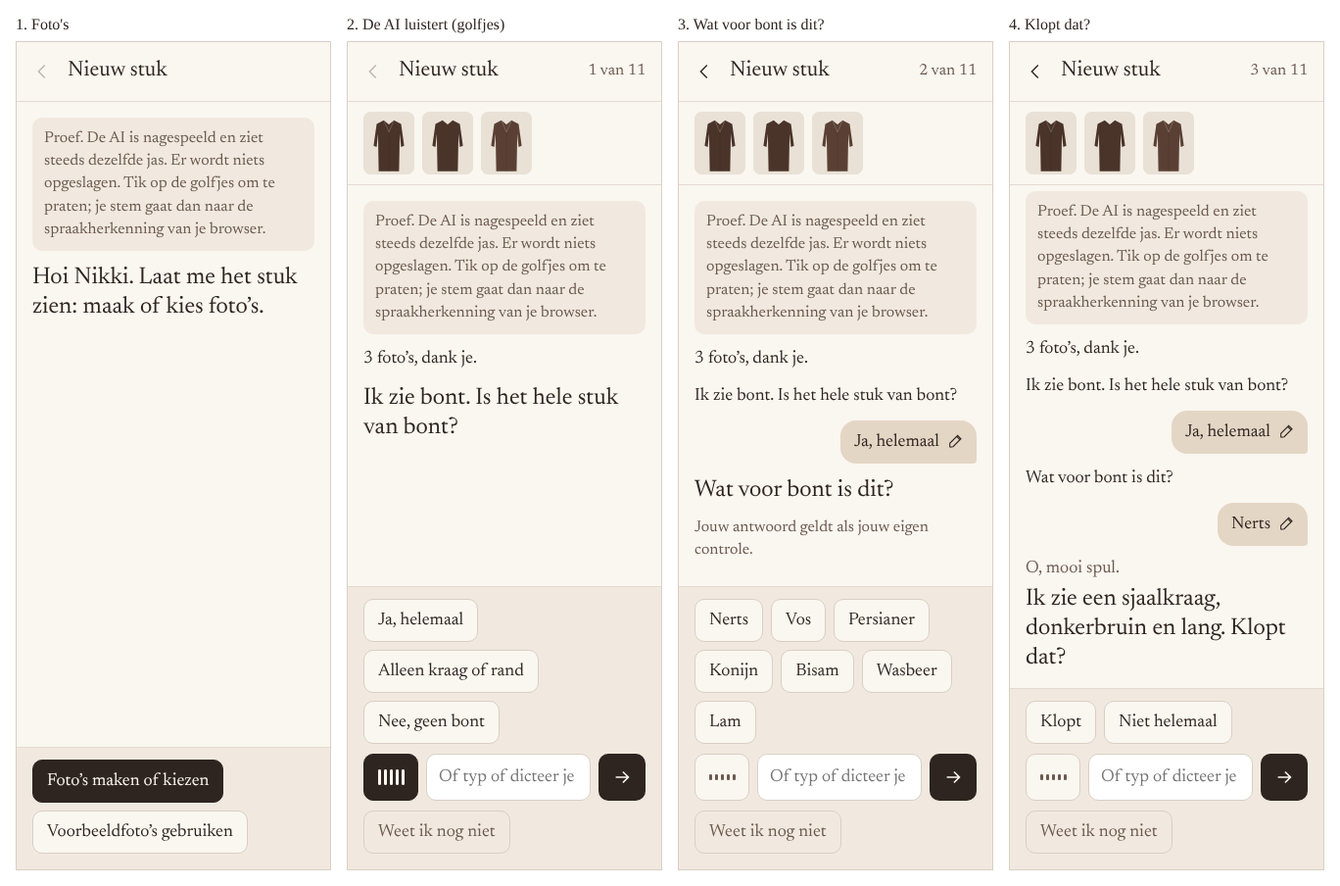
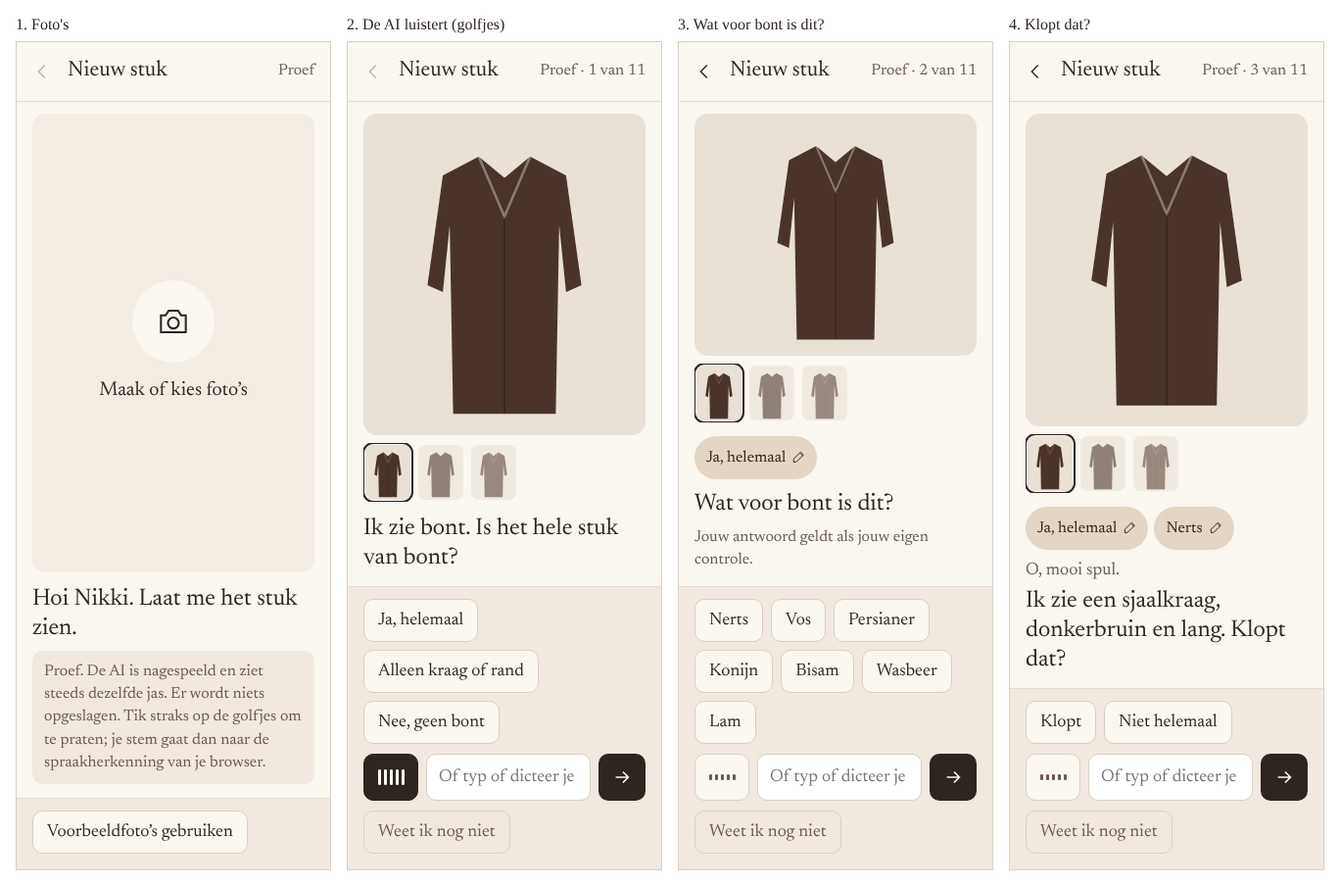
Mock Nieuw stuk als gesprek, versie 2: podium met foto, vraag woord voor woord, levendige golfjes
Claude-Session: https://claude.ai/code/session_016f11jH7HVz8Z6M7n49UibA

diff --git a/concept/invoer-gesprek.html b/concept/invoer-gesprek.html
@@ -39,22 +39,46 @@ svg { display: block; }
 .top h1 { flex: 1; min-width: 0; margin: 0; font-size: 22px; font-weight: 400; }
 .steps { flex: none; padding-right: 8px; font-size: 16px; color: var(--muted); white-space: nowrap; }
 
-/* Foto's staan in een eigen strook; er staat nooit tekst op een foto. */
-.thumbs { flex: none; display: flex; gap: 8px; padding: 10px 16px; overflow-x: auto; border-bottom: 1px solid var(--line); }
-.thumbs img { flex: none; width: 52px; height: 64px; object-fit: cover; object-position: center top; border-radius: 8px; background: var(--photo-bg); }
+/* Het podium vult de ruimte die overblijft. Er staat nooit tekst op een foto. */
+.stage { flex: 1 1 0; min-height: 150px; display: flex; flex-direction: column; gap: 8px; padding: 12px 16px 4px; }
+.hero { position: relative; flex: 1; min-height: 0; border-radius: 14px; overflow: hidden; background: var(--photo-bg); }
+.hero img { width: 100%; height: 100%; object-fit: contain; object-position: center; animation: beeld 360ms ease-out both; }
+@keyframes beeld { from { opacity: 0; transform: scale(1.03); } to { opacity: 1; transform: none; } }
+/* De AI "kijkt": een zachte lichtbaan trekt over de foto. */
+.scan { position: absolute; inset: 0; pointer-events: none; background: linear-gradient(100deg, transparent 35%, rgba(250,246,240,.55) 50%, transparent 65%); background-size: 250% 100%; animation: kijk 900ms ease-in-out infinite; }
+@keyframes kijk { from { background-position: 120% 0; } to { background-position: -20% 0; } }
+.hero .camera { position: absolute; inset: 0; display: flex; flex-direction: column; align-items: center; justify-content: center; gap: 14px; background: var(--chip); font-size: 20px; text-align: center; cursor: pointer; }
+.camera .lens { width: 84px; height: 84px; border-radius: 50%; background: var(--bg); display: grid; place-items: center; animation: adem 2600ms ease-in-out infinite; }
+@keyframes adem { 0%, 100% { transform: scale(1); } 50% { transform: scale(1.06); } }
+.camera:focus-within { outline: 2px solid var(--fg); outline-offset: -4px; }
+.thumbs { flex: none; display: flex; gap: 8px; overflow-x: auto; padding: 2px; }
+.thumbs button { flex: none; width: 46px; height: 56px; padding: 0; border: 0; border-radius: 8px; overflow: hidden; background: var(--photo-bg); opacity: .6; animation: val 380ms cubic-bezier(.2,.8,.2,1) both; animation-delay: calc(var(--i) * 70ms); }
+.thumbs button[aria-pressed="true"] { opacity: 1; outline: 2px solid var(--fg); outline-offset: 1px; }
+.thumbs img { display: block; width: 100%; height: 100%; object-fit: cover; object-position: center top; }
+@keyframes val { from { opacity: 0; transform: translateY(-14px) scale(.9); } to { transform: none; } }
+[data-mode="overview"] .stage { display: none; }
 
-.talk { position: relative; flex: 1; min-height: 0; overflow-y: auto; overscroll-behavior: contain; padding: 16px; display: flex; flex-direction: column; gap: 12px; }
+.talk { position: relative; flex: 0 1 auto; min-height: 0; max-height: 46%; overflow-y: auto; overscroll-behavior: contain; padding: 8px 16px 14px; display: flex; flex-direction: column; gap: 8px; }
+[data-mode="overview"] .talk { flex: 1; max-height: none; padding-top: 16px; gap: 12px; }
 .note { margin: 0; padding: 10px 12px; border-radius: 10px; background: var(--band); color: var(--muted); font-size: 16px; }
 .ai { margin: 0; max-width: 34ch; }
-.ai.now { font-size: 24px; line-height: 1.25; max-width: 22ch; }
+.ai.now { font-size: 24px; line-height: 1.25; max-width: 24ch; }
+/* De vraag komt woord voor woord; schermlezers krijgen de hele zin. */
+.ai.fresh .w { opacity: 0; animation: woord 260ms ease-out forwards; animation-delay: calc(var(--i) * 45ms); }
+@keyframes woord { from { opacity: 0; transform: translateY(4px); } to { opacity: 1; transform: none; } }
+.trail { flex: none; display: flex; gap: 6px; overflow-x: auto; margin: 0 -16px; padding: 2px 16px; scrollbar-width: none; }
+.trail::-webkit-scrollbar { display: none; }
+.done-mark { width: 56px; height: 56px; border-radius: 50%; background: var(--chip-on); display: grid; place-items: center; }
+.done-mark path { stroke-dasharray: 30; stroke-dashoffset: 30; animation: vink 420ms 120ms ease-out forwards; }
+@keyframes vink { to { stroke-dashoffset: 0; } }
 .ai .warm { display: block; color: var(--muted); font-size: 18px; padding-bottom: 4px; }
-.me { align-self: flex-end; max-width: 85%; min-height: 44px; padding: 8px 14px; border: 0; border-radius: 16px 16px 4px 16px; background: var(--chip-on); text-align: left; display: flex; align-items: center; gap: 8px; overflow-wrap: anywhere; }
+.me { flex: none; max-width: 70vw; min-height: 44px; padding: 6px 12px; border: 0; border-radius: 22px; background: var(--chip-on); font-size: 16px; white-space: nowrap; overflow: hidden; text-overflow: ellipsis; display: flex; align-items: center; gap: 6px; }
+.me span { overflow: hidden; text-overflow: ellipsis; }
 .me svg { flex: none; }
 .dots { display: flex; gap: 6px; padding: 8px 0; }
 .dots i { width: 8px; height: 8px; border-radius: 50%; background: var(--muted); animation: wacht 900ms ease-in-out infinite; }
 .dots i:nth-child(2) { animation-delay: 150ms; } .dots i:nth-child(3) { animation-delay: 300ms; }
 @keyframes wacht { 0%, 100% { opacity: .25; } 50% { opacity: 1; } }
-.measure { width: 120px; height: 150px; border-radius: 8px; background: var(--photo-bg); }
 
 /* Overzicht: zo komt het in de boetiek. */
 .card { border: 1px solid var(--line); border-radius: 14px; background: #FFFFFF; padding: 12px; display: flex; flex-direction: column; gap: 10px; }
@@ -67,8 +91,10 @@ svg { display: block; }
 
 /* Antwoorden: grote knoppen, daaronder typen of dicteren. */
 .answer { flex: none; padding: 12px 16px 16px; border-top: 1px solid var(--line); background: var(--band); display: flex; flex-direction: column; gap: 10px; }
-.chips { display: flex; flex-wrap: wrap; gap: 8px; max-height: 38vh; overflow-y: auto; }
-.chip { min-height: 44px; padding: 8px 14px; border: 1px solid var(--chip-line); border-radius: 10px; background: var(--bg); text-align: left; }
+.chips { display: flex; flex-wrap: wrap; gap: 8px; max-height: 28vh; overflow-y: auto; }
+.chip { min-height: 44px; padding: 8px 14px; border: 1px solid var(--chip-line); border-radius: 10px; background: var(--bg); text-align: left; transition: transform 120ms ease-out, background 160ms ease-out; }
+.chip:active { transform: scale(.96); }
+.chips.fresh .chip { animation: woord 260ms ease-out both; animation-delay: calc(120ms + var(--i) * 28ms); }
 .chip[aria-pressed="true"] { background: var(--chip-on); border-color: var(--fg); }
 .chip.main { background: var(--fg); border-color: var(--fg); color: var(--bg); }
 .chip.quiet { background: transparent; color: var(--muted); }
@@ -86,10 +112,8 @@ svg { display: block; }
 .voice[data-voice="speaking"] .bars { display: none; }
 .voice[data-voice="speaking"] .wave { display: block; }
 .voice .bars rect { transform-box: fill-box; transform-origin: center; transform: scaleY(.3); }
-.voice[data-voice="listening"] .bars rect { animation: luister 700ms ease-in-out infinite; }
-.voice .bars rect:nth-child(2) { animation-delay: 120ms; } .voice .bars rect:nth-child(3) { animation-delay: 240ms; }
-.voice .bars rect:nth-child(4) { animation-delay: 360ms; } .voice .bars rect:nth-child(5) { animation-delay: 480ms; }
-@keyframes luister { 0%, 100% { transform: scaleY(.25); } 50% { transform: scaleY(1); } }
+.voice .bars rect { transition: transform 110ms ease-out; }
+.voice .wave { transform: scaleY(var(--amp, 1)); transition: transform 140ms ease-out; }
 .voice[data-voice="speaking"] .wave path { animation: praat 900ms linear infinite; }
 @keyframes praat { from { transform: translateX(0); } to { transform: translateX(-16px); } }
 .voice-note { margin: 0; font-size: 16px; color: var(--muted); }
@@ -97,7 +121,14 @@ svg { display: block; }
 .pick { position: relative; overflow: hidden; }
 .pick input { position: absolute; inset: 0; opacity: 0; cursor: pointer; }
 
-@media (prefers-reduced-motion: reduce) { .dots i { animation: none; opacity: .6; } .voice .bars rect, .voice .wave path { animation: none !important; } .voice[data-voice="listening"] .bars rect { transform: scaleY(.8); } }
+@media (prefers-reduced-motion: reduce) {
+  .dots i { animation: none; opacity: .6; }
+  .voice .wave path, .hero img, .scan, .camera .lens, .thumbs button, .chips.fresh .chip, .done-mark path { animation: none !important; }
+  .ai.fresh .w { animation: none; opacity: 1; }
+  .done-mark path { stroke-dashoffset: 0; }
+  .scan { display: none; }
+  .voice[data-voice="listening"] .bars rect { transform: scaleY(.8); }
+}
 </style>
 </head>
 <body>
@@ -107,7 +138,11 @@ svg { display: block; }
     <h1>Nieuw stuk</h1>
     <span class="steps" id="steps" aria-live="polite"></span>
   </header>
-  <div class="thumbs" id="thumbs" hidden></div>
+  <!-- Het podium: de foto groot in beeld; bij een maatvraag de tekening van waar het meetlint ligt. -->
+  <section class="stage" id="stage" data-state="empty">
+    <div class="hero" id="hero"></div>
+    <div class="thumbs" id="thumbs" role="group" aria-label="Foto’s van dit stuk" hidden></div>
+  </section>
   <main class="talk" id="talk" aria-live="polite"></main>
   <form class="answer" id="answer" novalidate></form>
 </div>
@@ -144,7 +179,10 @@ svg { display: block; }
   var $ = function (id) { return document.getElementById(id); };
   var A = {}, photos = [], editing = null, thinking = false, saved = false, multi = null, error = '';
   // Praten (alleen na een tik op de golfjes): de AI leest de vraag voor en luistert daarna.
-  var voice = { on: false, state: 'idle', note: '', said: '', rec: null };
+  var voice = { on: false, state: 'idle', note: '', said: '', rec: null, hearing: false, timer: null };
+  // Wat er op het podium staat en welke vraag al getoond is (voor de overgangen).
+  var view = null, heroKey = '', thumbKey = '', askedKey = '';
+  var calm = window.matchMedia && window.matchMedia('(prefers-reduced-motion: reduce)').matches;
   var VOICE_ICON = '<svg class="bars" width="30" height="24" viewBox="0 0 30 24" fill="currentColor" aria-hidden="true"><rect x="2" y="2" width="3" height="20" rx="1.5"/><rect x="8" y="2" width="3" height="20" rx="1.5"/><rect x="14" y="2" width="3" height="20" rx="1.5"/><rect x="20" y="2" width="3" height="20" rx="1.5"/><rect x="26" y="2" width="3" height="20" rx="1.5"/></svg>' +
     '<svg class="wave" width="30" height="24" viewBox="0 0 30 24" fill="none" stroke="currentColor" stroke-width="2.4" stroke-linecap="round" aria-hidden="true"><path d="M-16 12 q4 -9 8 0 t8 0 t8 0 t8 0 t8 0 t8 0 t8 0"/></svg>';
   var VOICE_LABEL = { idle: 'Praat met de AI', speaking: 'De AI praat. Tik om te stoppen', listening: 'De AI luistert. Tik om te stoppen' };
@@ -211,31 +249,56 @@ svg { display: block; }
     A[step.id] = value; if (step.set) step.set(value);
     editing = null; multi = null; saved = false; render();
   }
+  function words(text, from) {
+    return text.split(' ').map(function (w, i) { return '<span class="w" style="--i:' + (from + i) + '">' + esc(w) + '</span>'; }).join(' ');
+  }
+  // Het podium: cameravlak, de gekozen foto, of bij een maatvraag de tekening met het meetlint.
+  function renderStage(step) {
+    var hero = $('hero'), key, h;
+    if (!photos.length) { key = 'camera'; h = '<label class="camera pick"><span class="lens" aria-hidden="true"><svg width="38" height="38" viewBox="0 0 24 24" fill="none" stroke="currentColor" stroke-width="1.3"><path d="M4 8h3l2-3h6l2 3h3v11H4z"/><circle cx="12" cy="13" r="3.5"/></svg></span><span>Maak of kies foto’s</span><input type="file" id="files" accept="image/*" multiple aria-label="Foto’s maken of kiezen"></label>'; }
+    else if (step && step.kind === 'cm') { key = 'cm-' + step.id; h = '<img class="measure" src="' + coat('#4A342A', step.id === 'length', MEASURE[step.id]) + '" alt="Tekening: zo leg je het meetlint voor de ' + step.label.toLowerCase() + '">'; }
+    else { var at = Math.min(view === null ? 0 : view, photos.length - 1); key = 'photo-' + at + photos[at]; h = '<img src="' + esc(photos[at]) + '" alt="Foto ' + (at + 1) + ' van dit stuk">'; }
+    if (thinking) { key += '-scan'; h += '<div class="scan" aria-hidden="true"></div>'; }
+    if (key !== heroKey) { heroKey = key; hero.innerHTML = h; }
+    $('stage').setAttribute('data-state', !photos.length ? 'empty' : thinking ? 'looking' : 'photo');
+    var thumbs = $('thumbs'), shownAt = step && step.kind === 'cm' ? -1 : Math.min(view === null ? 0 : view, photos.length - 1);
+    thumbs.hidden = !photos.length;
+    if (photos.join('|') !== thumbKey) {
+      thumbKey = photos.join('|');
+      thumbs.innerHTML = photos.map(function (src, i) { return '<button type="button" data-view="' + i + '" style="--i:' + i + '" aria-label="Bekijk foto ' + (i + 1) + '"><img src="' + esc(src) + '" alt=""></button>'; }).join('');
+    }
+    Array.from(thumbs.children).forEach(function (b, i) { b.setAttribute('aria-pressed', String(i === shownAt)); });
+  }
   function render() {
     var list = active(), step = thinking ? null : current(), answered = list.filter(done), talk = $('talk'), h = '';
-    $('thumbs').hidden = !photos.length;
-    $('thumbs').innerHTML = photos.map(function (src, i) { return '<img src="' + esc(src) + '" alt="Foto ' + (i + 1) + '">'; }).join('');
-    $('steps').textContent = photos.length && !thinking ? Math.min(answered.length + (step ? 1 : 0), list.length) + ' van ' + list.length : '';
+    var overview = !!photos.length && !thinking && !step;
+    $('app').setAttribute('data-mode', overview ? 'overview' : 'talk');
+    $('steps').textContent = 'Proef' + (photos.length && !thinking ? ' · ' + Math.min(answered.length + (step ? 1 : 0), list.length) + ' van ' + list.length : '');
     $('back').disabled = !photos.length || thinking || (!answered.length && !saved);
-    h += '<p class="note">Proef. De AI is nagespeeld en ziet steeds dezelfde jas. Er wordt niets opgeslagen. Tik op de golfjes om te praten; je stem gaat dan naar de spraakherkenning van je browser.</p>';
-    if (!photos.length) h += '<p class="ai now">Hoi Nikki. Laat me het stuk zien: maak of kies foto’s.</p>';
-    else h += '<p class="ai">' + (photos.length === 1 ? 'Eén foto' : photos.length + ' foto’s') + ', dank je.</p>';
-    if (thinking) h += '<div class="dots" role="img" aria-label="De AI bekijkt de foto’s"><i></i><i></i><i></i></div>';
-    var warm = '';
+    renderStage(step);
+    if (!photos.length) h += '<p class="ai now">Hoi Nikki. Laat me het stuk zien.</p><p class="note">Proef. De AI is nagespeeld en ziet steeds dezelfde jas. Er wordt niets opgeslagen. Tik straks op de golfjes om te praten; je stem gaat dan naar de spraakherkenning van je browser.</p>';
+    if (thinking) h += '<p class="ai now">' + (photos.length === 1 ? 'Eén foto' : photos.length + ' foto’s') + ', dank je. Ik kijk even.</p><div class="dots" role="img" aria-label="De AI bekijkt de foto’s"><i></i><i></i><i></i></div>';
+    var warm = '', fresh = false;
     if (photos.length && !thinking) {
+      // Wat al gezegd is, staat als rij knoppen boven de vraag; een tik wijzigt het antwoord.
+      var trail = '';
       answered.forEach(function (s) {
         if (step && s.id === step.id) return;
-        h += '<p class="ai">' + (warm ? '<span class="warm">' + esc(warm) + '</span>' : '') + esc(s.ask()) + '</p>';
-        h += '<button type="button" class="me" data-edit="' + s.id + '" aria-label="' + esc(s.label + ': ' + shown(s) + '. Tik om te wijzigen') + '"><span>' + esc(shown(s)) + '</span><svg width="16" height="16" viewBox="0 0 24 24" fill="none" stroke="currentColor" stroke-width="1.6" aria-hidden="true"><path d="m15 4 5 5M4 20l5-1L21 7l-5-5L4 14v6"/></svg></button>';
+        trail += '<button type="button" class="me" data-edit="' + s.id + '" aria-label="' + esc(s.label + ': ' + shown(s) + '. Tik om te wijzigen') + '"><span>' + esc(shown(s)) + '</span><svg width="14" height="14" viewBox="0 0 24 24" fill="none" stroke="currentColor" stroke-width="1.6" aria-hidden="true" style="flex:none"><path d="m15 4 5 5M4 20l5-1L21 7l-5-5L4 14v6"/></svg></button>';
         warm = A[s.id] === SKIP ? 'Geen punt, dat kan later.' : s.warm ? s.warm(A[s.id]) : '';
       });
       if (step) {
-        h += '<p class="ai now" id="question">' + (warm && !editing ? '<span class="warm">' + esc(warm) + '</span>' : '') + esc(step.ask()) + '</p>';
-        if (step.kind === 'cm') h += '<img class="measure" src="' + coat('#4A342A', step.id === 'length', MEASURE[step.id]) + '" alt="Tekening: zo leg je het meetlint voor de ' + step.label.toLowerCase() + '">';
+        if (trail) h += '<div class="trail" id="trail">' + trail + '</div>';
+        var said = warm && !editing ? warm : '', ask = step.ask();
+        fresh = askedKey !== step.id + ask; askedKey = step.id + ask;
+        h += '<p class="ai now' + (fresh ? ' fresh' : '') + '" id="question">' + (said ? '<span class="warm">' + words(said, 0) + '</span>' : '') + words(ask, said ? said.split(' ').length + 2 : 0) + '</p>';
         if (step.hint) h += '<p class="ai" style="color:var(--muted);font-size:16px">' + esc(step.hint) + '</p>';
       } else if (saved) {
-        h += '<p class="ai now">' + (missing(list).length ? 'Bewaard als concept. Je maakt hem later af; in de boetiek staat hij nog niet.' : 'Klaar. In de echte versie staat hij nu in de boetiek.') + '</p>';
+        askedKey = '';
+        h += '<div class="done-mark" aria-hidden="true"><svg width="28" height="28" viewBox="0 0 24 24" fill="none" stroke="currentColor" stroke-width="2"><path d="M5 12.5l4.5 4.5L19 7.5"/></svg></div>' +
+          '<p class="ai now">' + (missing(list).length ? 'Bewaard als concept. Je maakt hem later af; in de boetiek staat hij nog niet.' : 'Klaar. In de echte versie staat hij nu in de boetiek.') + '</p>';
       } else {
+        askedKey = '';
         var open = missing(list);
         h += '<p class="ai now">' + (warm ? '<span class="warm">' + esc(warm) + '</span>' : '') + (open.length ? 'Bijna. Voor de boetiek heb ik dit nog nodig:' : 'Dat is alles. Zo komt hij in de boetiek:') + '</p>';
         if (open.length) h += '<div class="card" id="open">' + open.map(function (s) { return '<button type="button" class="kv" data-edit="' + s.id + '" style="border-top:0"><span style="color:var(--fg)">' + esc(s.label) + '</span><span>Nu invullen</span></button>'; }).join('') + '</div><p class="ai">Dit weet ik al:</p>';
@@ -243,11 +306,11 @@ svg { display: block; }
       }
     }
     talk.innerHTML = h;
-    renderAnswer(step);
-    // The newest question stays in view; the overview starts at its own first line.
-    var overview = talk.querySelector('.card'), lead = talk.querySelector('.ai.now');
+    renderAnswer(step, fresh);
     speakQuestion(step);
-    talk.scrollTop = overview && lead ? Math.max(0, lead.offsetTop - 12) : talk.scrollHeight;
+    // In het overzicht begint het beeld bij de eerste regel; de rij antwoorden toont steeds het laatste.
+    talk.scrollTop = 0;
+    var row = $('trail'); if (row) row.scrollLeft = row.scrollWidth;
   }
   function summary(list) {
     var skip = { zie: 1, titel: 1, prijs: 1 };
@@ -257,11 +320,10 @@ svg { display: block; }
         return '<button type="button" class="kv" data-edit="' + s.id + '" aria-label="' + esc(s.label + ': ' + shown(s) + '. Tik om te wijzigen') + '"><span>' + esc(s.label) + '</span><span>' + esc(shown(s)) + '</span></button>';
       }).join('') + '</div>';
   }
-  function renderAnswer(step) {
+  function renderAnswer(step, fresh) {
     var box = $('answer'), h = '';
     if (!photos.length) {
-      h = '<div class="chips"><label class="chip main pick">Foto’s maken of kiezen<input type="file" id="files" accept="image/*" multiple aria-label="Foto’s maken of kiezen"></label>' +
-        '<button type="button" class="chip" data-sample>Voorbeeldfoto’s gebruiken</button></div>';
+      h = '<div class="chips"><button type="button" class="chip" data-sample>Voorbeeldfoto’s gebruiken</button></div>';
     } else if (thinking) h = '';
     else if (!step) {
       h = '<div class="chips">' + (saved ? '<button type="button" class="chip main" data-again>Volgend stuk</button>' : '<button type="button" class="chip main" data-save>' + (missing(active()).length ? 'Bewaar als concept (proef)' : 'Opslaan (proef)') + '</button>') + '</div>';
@@ -269,9 +331,9 @@ svg { display: block; }
       if (step.kind === 'multi' && !multi) multi = (A[step.id] || SEEN.bijzonderheden).slice();
       var options = step.options ? step.options().map(function (o) { return Array.isArray(o) ? o : [o, o]; }) : [];
       if (step.kind === 'multi') multi.forEach(function (v) { if (!options.some(function (o) { return o[0] === v; })) options.push([v, v]); });
-      if (options.length) h += '<div class="chips" role="group" aria-labelledby="question">' + options.map(function (o) {
+      if (options.length) h += '<div class="chips' + (fresh ? ' fresh' : '') + '" role="group" aria-labelledby="question">' + options.map(function (o, i) {
         var on = step.kind === 'multi' ? multi.indexOf(o[0]) >= 0 : A[step.id] === o[0];
-        return '<button type="button" class="chip" data-value="' + esc(o[0]) + '" aria-pressed="' + on + '">' + esc(o[1]) + '</button>';
+        return '<button type="button" class="chip" style="--i:' + i + '" data-value="' + esc(o[0]) + '" aria-pressed="' + on + '">' + esc(o[1]) + '</button>';
       }).join('') + '</div>';
       var numeric = step.kind === 'cm' || step.kind === 'euro';
       // Altijd dezelfde rij: golfjes (praten), typen of dicteren, versturen.
@@ -313,8 +375,20 @@ svg { display: block; }
   }
 
   function setVoice(state) {
-    voice.state = state; var b = $('voice');
+    voice.state = state; if (state !== 'listening') voice.hearing = false;
+    var b = $('voice');
     if (b) { b.setAttribute('data-voice', state); b.setAttribute('aria-label', VOICE_LABEL[state]); }
+    clearInterval(voice.timer); voice.timer = null;
+    if (state !== 'idle' && !calm) voice.timer = setInterval(moveVoice, 110);
+    moveVoice();
+  }
+  // De golfjes bewegen onregelmatig, zoals een stem: rustig zolang de AI wacht, hoog zodra hij
+  // Nikki hoort praten (de spraakherkenning meldt dat), en golvend als de AI zelf praat.
+  function moveVoice() {
+    var b = $('voice'); if (!b) return;
+    var bars = b.querySelectorAll('.bars rect'), low = voice.hearing ? .45 : .2, high = voice.hearing ? 1 : .45;
+    Array.prototype.forEach.call(bars, function (r) { r.style.transform = voice.state === 'listening' && !calm ? 'scaleY(' + (low + Math.random() * (high - low)).toFixed(2) + ')' : ''; });
+    b.style.setProperty('--amp', voice.state === 'speaking' && !calm ? (.55 + Math.random() * .6).toFixed(2) : '1');
   }
   function stopVoice() {
     voice.on = false; voice.said = '';
@@ -329,6 +403,8 @@ svg { display: block; }
     var rec = voice.rec = new Recognition(), heard = '';
     rec.lang = 'nl-NL'; rec.interimResults = false; rec.maxAlternatives = 1;
     rec.onresult = function (e) { heard = e.results[0][0].transcript; };
+    rec.onspeechstart = function () { voice.hearing = true; };
+    rec.onspeechend = function () { voice.hearing = false; };
     rec.onerror = function (e) {
       if (voice.rec !== rec) return; voice.rec = null; voice.on = false; setVoice('idle');
       voice.note = e.error === 'no-speech' ? 'Ik hoorde niets. Tik op de golfjes om het nog eens te proberen.' : 'Luisteren lukt hier niet. Typ, of dicteer met de microfoon van je toetsenbord.';
@@ -366,7 +442,7 @@ svg { display: block; }
     }
     if (b.hasAttribute('data-sample')) return start(SAMPLE.slice());
     if (b.hasAttribute('data-save')) { saved = true; return render(); }
-    if (b.hasAttribute('data-again')) { stopVoice(); A = {}; photos = []; saved = false; editing = null; return render(); }
+    if (b.hasAttribute('data-again')) { stopVoice(); A = {}; photos = []; saved = false; editing = null; view = null; askedKey = ''; return render(); }
     if (!step) return;
     if (b.hasAttribute('data-skip')) return give(step, SKIP);
     if (b.hasAttribute('data-ready')) return give(step, multi.slice());
@@ -377,10 +453,14 @@ svg { display: block; }
       b.setAttribute('aria-pressed', String(at < 0));
     }
   });
-  $('answer').addEventListener('change', function (e) {
+  $('app').addEventListener('change', function (e) {
     if (e.target.id !== 'files') return;
     var files = Array.from(e.target.files || []).filter(function (f) { return /^image\//.test(f.type); }).slice(0, 8);
     if (files.length) start(files.map(function (f) { return URL.createObjectURL(f); }));
+  });
+  $('thumbs').addEventListener('click', function (e) {
+    var b = e.target.closest('[data-view]'); if (!b) return;
+    view = Number(b.getAttribute('data-view')); renderStage(thinking ? null : current());
   });
   $('talk').addEventListener('click', function (e) {
     var b = e.target.closest('[data-edit]'); if (!b) return;

diff --git a/concept/README.md b/concept/README.md
@@ -50,8 +50,9 @@ Alles in deze map is uitsluitend een skelet om gevoel bij te krijgen. Een werken
 
 [invoer-gesprek.html](invoer-gesprek.html) laat zien hoe invoeren voelt als de AI het gesprek leidt. Eén zelfstandig bestand in de stijl van optie B. De AI is nagespeeld: hij "ziet" altijd dezelfde jas en de reacties zijn vaste zinnen. Er wordt niets opgeslagen.
 
+- **Eén geheel (versie 2).** Bovenaan het podium: eerst een groot cameravlak, daarna de foto groot in beeld, en bij een maatvraag de tekening van waar het meetlint ligt. Terwijl de AI "kijkt" trekt er een lichtbaan over de foto. Daaronder de vraag, die woord voor woord verschijnt, met de eerdere antwoorden als rij knoppen erboven (tik om te wijzigen).
 - **Eén vraag per keer.** Eerst de foto's, dan vragen zoals "Wat voor bont is dit?". Antwoorden met een knop, door te typen of te dicteren, of door te praten.
-- **Praten:** het vakje met de golfjes staat op elke vraag op dezelfde plek. Rust is lage streepjes, een lopende golf betekent dat de AI de vraag voorleest, dansende streepjes dat hij luistert. Het begint pas na een tik. Het gebruikt de voorleesstem en spraakherkenning van de browser; waar die ontbreken, zegt de mock dat en blijft typen werken.
+- **Praten:** het vakje met de golfjes staat op elke vraag op dezelfde plek. Rust is lage streepjes, een lopende golf betekent dat de AI de vraag voorleest, dansende streepjes dat hij luistert. De golfjes bewegen onregelmatig en gaan hoger zodra de spraakherkenning een stem hoort; ze volgen nog niet het echte volume (dat komt pas met een live stem). Het begint pas na een tik. Het gebruikt de voorleesstem en spraakherkenning van de browser; waar die ontbreken, zegt de mock dat en blijft typen werken.
 - **Nooit vastlopen:** elke vraag heeft "Weet ik nog niet", ook de maten. Aan het eind staat wat de boetiek nog nodig heeft, en het stuk kan als concept bewaard worden.
 - **Regels:** de bontsoort wordt nooit voorgesteld en komt alleen van Nikki. Wat de AI wel zag, legt hij voor als "klopt dat?". Maten in cm, tot 300. De complimenten ("O, mooi spul.") zijn voor Nikki en komen niet in de titel of het overzicht.
 - **Controle:** `node tests/invoer-gesprek.cjs` op 390 en 320 px. Zie de [schermafbeeldingen](../docs/screenshots/invoer-gesprek/README.md).

diff --git a/docs/STATUS.md b/docs/STATUS.md
@@ -10,6 +10,11 @@ Korte logboekregels, nieuwste bovenaan. Alleen feiten die zijn gecontroleerd; pl
 
 ## Logboek
 
+### 15 november 2026 — mock Nieuw stuk als gesprek, versie 2
+- PR #55 (eerste mock) staat op `main` (`c281edd`). Martijn vond die te statisch en vroeg om één geïntegreerde beleving.
+- Versie 2 van `concept/invoer-gesprek.html`: een podium met een groot cameravlak, daarna de foto groot in beeld en bij maatvragen de meettekening; een lichtbaan terwijl de AI kijkt; de vraag verschijnt woord voor woord; eerdere antwoorden staan als rij knoppen boven de vraag; golfjes bewegen levendiger en reageren op het begin en einde van spraak; een vinkje bij klaar. Bij "minder beweging" op het toestel staat alles stil.
+- Nog steeds een mock met nagespeelde AI; de app, de server en Gemini zijn niet veranderd. `node tests/invoer-gesprek.cjs` slaagt op 390 en 320 px. Echte spraak op een telefoon is niet getest.
+
 ### 15 november 2026 — mock: Nieuw stuk als gesprek
 - PR #52, #53 en #54 staan op `main` (`84b8a55`); de migratie `20261115120000_close_save_garment.sql` moet Martijn nog uitrollen.
 - Nieuw: `concept/invoer-gesprek.html`, een mock van invoeren als gesprek met een nagespeelde AI. Eén vraag per keer, knoppen of typen, en praten via het vakje met de golfjes (voorlezen en luisteren met de stem van de browser, pas na een tik). Elke vraag is over te slaan; ontbreekt er iets dat de boetiek nodig heeft, dan eindigt het als concept.
